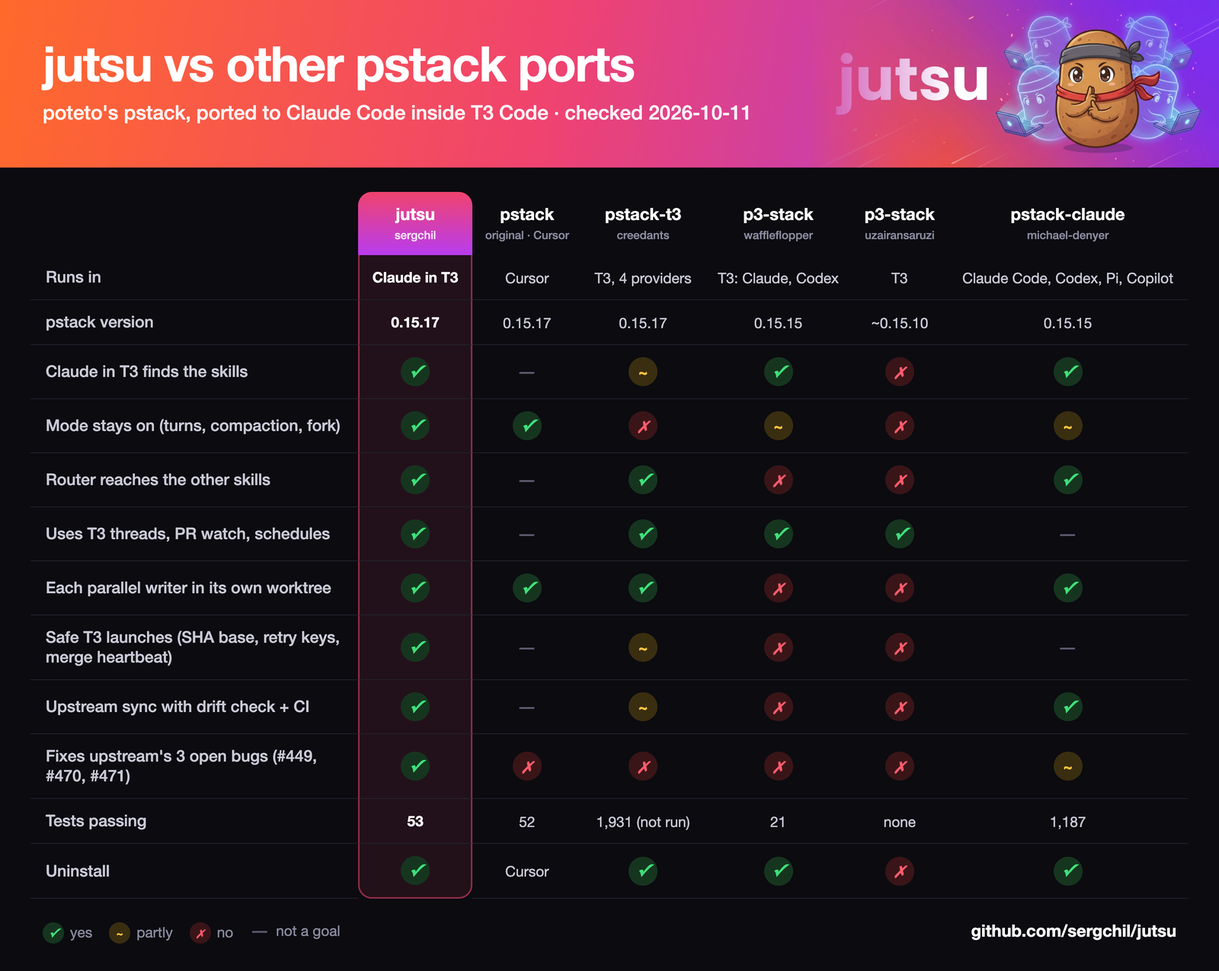
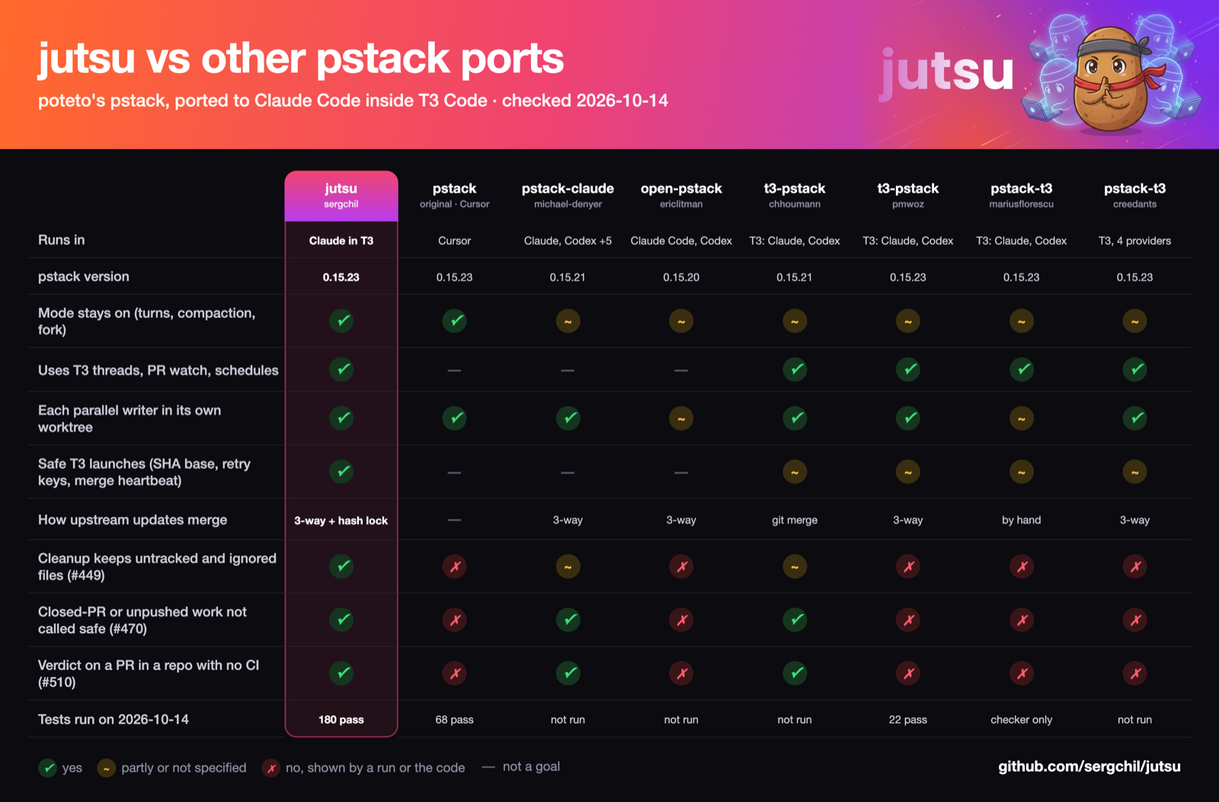
Docs for 0.2.0: comparison of 11 ports dated 2026-10-14, live test notes, changelog, credits

diff --git a/docs/images/comparison.html b/docs/images/comparison.html
@@ -1,11 +1,11 @@
-<!-- Source of comparison.png. Keep its rows in step with docs/COMPARISON.md.
-     Render: screenshot the .card element at deviceScaleFactor 2 (Playwright or headless Chrome),
-     then resize to 1600 px wide. -->
+<!-- Source of comparison.png. Keep its rows in step with docs/COMPARISON.md (it shows 8 of its 11 repos).
+     Render: screenshot the .card element at deviceScaleFactor 2 (Playwright Chromium headless,
+     --use-angle=swiftshader), then resize to 1600 px wide (sips --resampleWidth 1600). -->
 <!doctype html>
 <html><head><meta charset="utf-8">
 <style>
   * { box-sizing: border-box; margin: 0; padding: 0; }
-  body { width: 1600px; background: #0b0b10; font-family: -apple-system, "SF Pro Display", "Helvetica Neue", sans-serif; color: #e8e8ef; }
+  body { width: 1800px; background: #0b0b10; font-family: -apple-system, "SF Pro Display", "Helvetica Neue", sans-serif; color: #e8e8ef; }
   .card { margin: 0; padding: 0 0 36px; background: #0b0b10; }
   .hero { position: relative; height: 220px; overflow: hidden;
           background: linear-gradient(100deg, #ff6a2b 0%, #f0436f 45%, #9b3cf0 100%); }
@@ -14,23 +14,23 @@
   .hero .txt { position: absolute; left: 56px; top: 44px; }
   .hero h1 { font-size: 64px; font-weight: 800; letter-spacing: -1.5px; color: #fff; }
   .hero p { margin-top: 10px; font-size: 26px; color: rgba(255,255,255,.92); font-weight: 500; }
-  table { margin: 32px 40px 0; width: calc(100% - 80px); border-collapse: separate; border-spacing: 0; font-size: 21px; }
-  th, td { padding: 16px 14px; text-align: center; border-bottom: 1px solid #23232e; }
-  th { font-size: 22px; font-weight: 700; color: #fff; padding-bottom: 6px; border-bottom: none; }
-  th small { display: block; font-size: 15px; font-weight: 500; color: #8b8ba0; margin-top: 4px; padding-bottom: 12px; }
-  td:first-child, th:first-child { text-align: left; color: #c9c9d6; font-weight: 500; width: 430px; padding-left: 20px; }
+  table { margin: 32px 40px 0; width: calc(100% - 80px); border-collapse: separate; border-spacing: 0; font-size: 20px; table-layout: fixed; }
+  th, td { padding: 14px 8px; text-align: center; border-bottom: 1px solid #23232e; vertical-align: middle; }
+  th { font-size: 20px; font-weight: 700; color: #fff; padding-bottom: 6px; border-bottom: none; line-height: 1.15; }
+  th small { display: block; font-size: 14px; font-weight: 500; color: #8b8ba0; margin-top: 4px; padding-bottom: 12px; }
+  td:first-child, th:first-child { text-align: left; color: #c9c9d6; font-weight: 500; width: 380px; padding-left: 16px; line-height: 1.25; }
   .j { background: rgba(240, 67, 111, .10); }
   th.j { background: linear-gradient(180deg, #f0436f, #b83cf0); border-radius: 18px 18px 0 0; }
   th.j small { color: rgba(255,255,255,.85); }
   tr:last-child td.j { border-radius: 0 0 18px 18px; }
   td.j { border-left: 2px solid rgba(240,67,111,.55); border-right: 2px solid rgba(240,67,111,.55); color: #fff; font-weight: 600; }
   tr:last-child td.j { border-bottom: 2px solid rgba(240,67,111,.55); }
-  .b { display: inline-flex; align-items: center; justify-content: center; width: 38px; height: 38px; border-radius: 50%; font-size: 22px; font-weight: 800; }
+  .b { display: inline-flex; align-items: center; justify-content: center; width: 36px; height: 36px; border-radius: 50%; font-size: 21px; font-weight: 800; }
   .y { background: #16351f; color: #3ee07a; }
   .p { background: #3a2e10; color: #ffc53d; }
   .n { background: #3a1518; color: #ff5c6c; }
   .x { color: #5c5c70; font-size: 26px; }
-  .t { font-size: 19px; color: #c9c9d6; }
+  .t { font-size: 16px; line-height: 1.25; color: #c9c9d6; display: inline-block; }
   td.j .t { color: #fff; }
   .foot { display: flex; justify-content: space-between; align-items: center; margin: 26px 56px 0; font-size: 19px; color: #8b8ba0; }
   .legend span { margin-right: 22px; display: inline-flex; align-items: center; gap: 8px; }
@@ -42,32 +42,31 @@
     <img src="header.jpg">
     <div class="txt">
       <h1>jutsu vs other pstack ports</h1>
-      <p>poteto's pstack, ported to Claude Code inside T3 Code · checked 2026-10-11</p>
+      <p>poteto's pstack, ported to Claude Code inside T3 Code · checked 2026-10-14</p>
     </div>
   </div>
   <table id="tbl"></table>
   <div class="foot">
     <div class="legend">
-      <span><i class="b y">✓</i>yes</span><span><i class="b p">~</i>partly</span><span><i class="b n">✗</i>no</span><span><i class="x">—</i>not a goal</span>
+      <span><i class="b y">✓</i>yes</span><span><i class="b p">~</i>partly or not specified</span><span><i class="b n">✗</i>no, shown by a run or the code</span><span><i class="x">—</i>not a goal</span>
     </div>
     <div class="url">github.com/sergchil/jutsu</div>
   </div>
 </div>
 <script>
-const cols = [["jutsu","sergchil"],["pstack","original · Cursor"],["pstack-t3","creedants"],["p3-stack","waffleflopper"],["p3-stack","uzairansaruzi"],["pstack-claude","michael-denyer"]];
+const cols = [["jutsu","sergchil"],["pstack","original · Cursor"],["pstack-claude","michael-denyer"],["open-pstack","ericlitman"],["t3-pstack","chhoumann"],["t3-pstack","pmwoz"],["pstack-t3","mariusflorescu"],["pstack-t3","creedants"]];
 const rows = [
- ["Runs in", "t:Claude in T3","t:Cursor","t:T3, 4 providers","t:T3: Claude, Codex","t:T3","t:Claude Code, Codex, Pi, Copilot"],
- ["pstack version", "t:0.15.17","t:0.15.17","t:0.15.17","t:0.15.15","t:~0.15.10","t:0.15.15"],
- ["Claude in T3 finds the skills", "y","x","p","y","n","y"],
- ["Mode stays on (turns, compaction, fork)", "y","y","n","p","n","p"],
- ["Router reaches the other skills", "y","x","y","n","n","y"],
- ["Uses T3 threads, PR watch, schedules", "y","x","y","y","y","x"],
- ["Each parallel writer in its own worktree", "y","y","y","n","n","y"],
- ["Safe T3 launches (SHA base, retry keys, merge heartbeat)", "y","x","p","n","n","x"],
- ["Upstream sync with drift check + CI", "y","x","p","n","n","y"],
- ["Fixes upstream's 3 open bugs (#449, #470, #471)", "y","n","n","n","n","p"],
- ["Tests passing", "t:53","t:52","t:1,931 (not run)","t:21","t:none","t:1,187"],
- ["Uninstall", "y","t:Cursor","y","y","n","y"],
+ ["Runs in", "t:Claude in T3","t:Cursor","t:Claude, Codex +5","t:Claude Code, Codex","t:T3: Claude, Codex","t:T3: Claude, Codex","t:T3: Claude, Codex","t:T3, 4 providers"],
+ ["pstack version", "t:0.15.23","t:0.15.23","t:0.15.21","t:0.15.20","t:0.15.21","t:0.15.23","t:0.15.23","t:0.15.23"],
+ ["Mode stays on (turns, compaction, fork)", "y","y","p","p","p","p","p","p"],
+ ["Uses T3 threads, PR watch, schedules", "y","x","x","x","y","y","y","y"],
+ ["Each parallel writer in its own worktree", "y","y","y","p","y","y","p","y"],
+ ["Safe T3 launches (SHA base, retry keys, merge heartbeat)", "y","x","x","x","p","p","p","p"],
+ ["How upstream updates merge", "t:3-way + hash lock","x","t:3-way","t:3-way","t:git merge","t:3-way","t:by hand","t:3-way"],
+ ["Cleanup keeps untracked and ignored files (#449)", "y","n","p","n","p","n","n","n"],
+ ["Closed-PR or unpushed work not called safe (#470)", "y","n","y","n","y","n","n","n"],
+ ["Verdict on a PR in a repo with no CI (#510)", "y","n","y","n","y","n","n","n"],
+ ["Tests run on 2026-10-14", "t:180 pass","t:68 pass","t:not run","t:not run","t:not run","t:22 pass","t:checker only","t:not run"],
 ];
 const sym = {y:'<i class="b y">✓</i>', p:'<i class="b p">~</i>', n:'<i class="b n">✗</i>', x:'<i class="x">—</i>'};
 let h = '<tr><th></th>' + cols.map((c,i)=>`<th class="${i==0?'j':''}">${c[0]}<small>${c[1]}</small></th>`).join('') + '</tr>';

diff --git a/docs/index.html b/docs/index.html
@@ -193,10 +193,11 @@ cd jutsu &amp;&amp; ./install.sh</code></pre>
 
   <section id="compare">
     <h2>Compared with other pstack ports</h2>
+    <p>jutsu also fixes three pstack bugs that are still open upstream: <a href="https://github.com/cursor/plugins/issues/449">#449</a> and <a href="https://github.com/cursor/plugins/issues/470">#470</a> in worktree cleanup, and <code>watch-pr</code> on a repo with no CI (<a href="https://github.com/cursor/plugins/pull/510">PR #510</a>).</p>
     <figure>
-      <a href="images/comparison.png"><img src="images/comparison.png" width="1600" height="1275" loading="lazy" decoding="async"
-         alt="Table comparing jutsu with pstack, pstack-t3, two p3-stack ports, and pstack-claude on 12 points, checked 2026-10-11"></a>
-      <figcaption>Checked 2026-10-11. <a href="https://github.com/sergchil/jutsu/blob/main/docs/COMPARISON.md">See the evidence for every cell.</a></figcaption>
+      <a href="images/comparison.png"><img src="images/comparison.png" width="1600" height="1053" loading="lazy" decoding="async"
+         alt="Table comparing jutsu with pstack, pstack-claude, open-pstack, two t3-pstack ports, and two pstack-t3 ports on 11 points, checked 2026-10-14"></a>
+      <figcaption>Checked 2026-10-14. The full table covers 11 repos. <a href="https://github.com/sergchil/jutsu/blob/main/docs/COMPARISON.md">See the evidence for every cell.</a></figcaption>
     </figure>
   </section>
 

diff --git a/docs/COMPARISON.md b/docs/COMPARISON.md
@@ -1,44 +1,97 @@
 # pstack ports compared
 
-Checked on **2026-10-11** against each repo's default branch. Every cell comes from a file at the commit listed below, a command run that day, or the GitHub API. ✅ meets the point, ⚠ partly, ❌ does not, — not a goal of that repo.
+Checked on **2026-10-14** against each repo's default branch. Every cell comes from a file at the commit listed below, a command run that day, or the GitHub API. ✅ meets the point, ⚠ partly or not specified, ❌ fails it (shown by a run or by the code path), — not a goal of that repo. jutsu is held to the same bar: a ❌ needs a shown failure, and a point a repo does not address is ⚠, not ❌.
+
+A search on 2026-10-14 found 311 public pstack ports. These are the 10 closest to jutsu: every T3 Code port with real use or a distinct technique, and the largest Claude Code ports.
 
 | Repo | Commit | Date (UTC) |
 |---|---|---|
-| [pstack](https://github.com/cursor/plugins/tree/main/pstack) (original) | `978ca6e` (0.15.17) | 2026-10-10 |
-| [**sergchil/jutsu**](https://github.com/sergchil/jutsu) (this repo) | `main` | 2026-10-11 |
-| [creedants/pstack-t3](https://github.com/creedants/pstack-t3) | `a9fca20` | 2026-10-11 |
+| [pstack](https://github.com/cursor/plugins/tree/main/pstack) (original) | `ce649c0` (0.15.23) | 2026-10-14 |
+| [**sergchil/jutsu**](https://github.com/sergchil/jutsu) (this repo) | 0.2.0 | 2026-10-14 |
+| [creedants/pstack-t3](https://github.com/creedants/pstack-t3) | `6da5eb3` | 2026-10-14 |
 | [waffleflopper/p3-stack](https://github.com/waffleflopper/p3-stack) | `fc4a5fb` | 2026-10-09 |
 | [uzairansaruzi/p3-stack](https://github.com/uzairansaruzi/p3-stack) | `09909eb` | 2026-10-05 |
-| [michael-denyer/pstack-claude](https://github.com/michael-denyer/pstack-claude) | `5f07f5e` (0.9.81) | 2026-10-10 |
+| [pmwoz/t3-pstack](https://github.com/pmwoz/t3-pstack) | `0f329b4` | 2026-10-14 |
+| [chhoumann/t3-pstack](https://github.com/chhoumann/t3-pstack) | `5c3f2fa` | 2026-10-13 |
+| [mariusflorescu/pstack-t3](https://github.com/mariusflorescu/pstack-t3) | `564759a` | 2026-10-14 |
+| [michael-denyer/pstack-claude](https://github.com/michael-denyer/pstack-claude) | `94f5ce9` (0.9.84) | 2026-10-14 |
+| [ericlitman/open-pstack](https://github.com/ericlitman/open-pstack) | `40d506c` | 2026-10-13 |
+| [backnotprop/pstack](https://github.com/backnotprop/pstack) | `1f0f9c3` | 2026-10-14 |
 
-## The points, with evidence
+## T3 Code ports
 
-| Point | pstack | **jutsu** | pstack-t3 | waffle | uzair | pstack-claude |
-|---|---|---|---|---|---|---|
-| Runs in | Cursor | Claude Code in T3, plain Claude Code too | T3: Claude, Codex, Grok, Cursor | T3: Claude, Codex | T3 providers that read `~/.agents/skills` | Claude Code, Codex, Pi, Copilot |
-| Built from pstack | 0.15.17 | 0.15.17 | 0.15.17 | 0.15.15 | about 0.15.10 (no pin) | 0.15.15 |
-| Upstream skills present, of 52 | 52 | 51: `make-bot-ui` left out, it builds Cursor automations | 52 | 51: no `ketchup` | 51: no `ketchup` | 50: no `ketchup`, `make-bot-ui` |
-| Claude in T3 finds the skills after install | — | ✅ links every enabled T3 Claude instance | ⚠ ignores a T3 instance's `homePath` (`scripts/install.py:38-47`) | ✅ | ❌ links only `~/.agents/skills`, which Claude does not read ([issue #2](https://github.com/uzairansaruzi/p3-stack/issues/2)) | ✅ as a plugin; not in T3's `$` picker |
-| Mode stays on: every turn, after compaction, after a fork | ✅ Cursor Custom Mode | ✅ mode hook (`plugin/hooks/jutsu-mode`) | ❌ no hooks; the per-turn reminder is dropped (`scripts/build.py:27`) | ⚠ a forked thread loses it (`hooks/install.py:22-26`) | ❌ no hooks | ⚠ session start only (`hooks.json:5`) |
-| The router can reach the other skills under Claude | — | ✅ reads them by path | ✅ | ❌ 50 of 51 skills set `disable-model-invocation: true`, which Claude's Skill tool refuses | ❌ same as waffle | ✅ |
-| Uses T3's own tools (threads, PR watch, schedules, browser, simulator) | — | ✅ | ✅ | ✅ | ✅ | — |
-| Each parallel writer gets its own worktree | ✅ Cursor cloud agents | ✅ worktree from HEAD per writer | ✅ | ❌ owners share one checkout (`autopilot-full.md:11-12`) | ❌ same as waffle | ✅ `isolation: "worktree"` |
-| `delegate_task` calls carry a retry key (`clientRequestId`) | — | ✅ | ✅ | ❌ 0 of 40 files | ❌ 0 of 40 files | — |
-| Launched T3 threads start from a commit SHA | — | ✅ | ⚠ from a branch name | ⚠ not specified | ⚠ not specified | — |
-| A merge wait has a heartbeat (a merge never wakes a T3 watch) | — | ✅ | ✅ | ⚠ waits for a merge wake (`shipping.md:14`) | ⚠ same as waffle | — |
-| Upstream update: sync script, per-file drift check, CI | — | ✅ weekly upstream PR that lists what to port | ⚠ 2 rewritten files not drift-checked | ❌ | ❌ | ✅ |
-| Fixes upstream's open bugs: [#449](https://github.com/cursor/plugins/issues/449) deletes untracked and ignored files, [#470](https://github.com/cursor/plugins/issues/470) calls closed-PR or unpushed work safe, [#471](https://github.com/cursor/plugins/issues/471) reads only 100 review threads | ❌ all 3 open | ✅ all 3, with tests (`tests/test_worktree_audit.py`, `watch-pr/github.test.ts`) | ❌ all 3 present (`t3/overrides/poteto-mode/scripts/worktree-audit.sh:401`, `playbooks/worktree-cleanup.md:11`, `watch-pr/github.ts`) | ❌ #449 and #470 present (`worktree-audit.sh:116`, `worktree-cleanup.md:9`); no watch-pr | ❌ #449 present (`worktree-cleanup.md:9`); no audit script or watch-pr | ⚠ #470 and #471 fixed; #449 half: untracked files are held, but ignored files are not checked and the playbook still uses `--force` and `rm -rf` (`worktree-cleanup.md:9`) |
-| Tests | 52 pass | 53 pass | 1,931 (suite over 3 min, not run) | 21 pass, 1 skip | none | 1,187 pass, 40 skip |
-| Uninstall | Cursor's plugin manager | ✅ `./uninstall.sh` | ✅ | ✅ | ❌ | ✅ `claude plugin uninstall` |
-| Adds scope beyond pstack | — | none | `brigade`, `landing`, light mode, 4 provider harnesses | Codex hooks | none | 3 more runtimes, 8 extra skills |
+| Point | **jutsu** | creedants pstack-t3 | waffle p3-stack | uzair p3-stack | pmwoz t3-pstack | chhoumann t3-pstack | marius pstack-t3 |
+|---|---|---|---|---|---|---|---|
+| Runs in | Claude Code in T3, plain Claude Code too | T3: Claude, Codex, Grok, Cursor | T3: Claude, Codex | T3 providers that read `~/.agents/skills` | T3: Claude, Codex | T3: Claude, Codex | T3: Claude, Codex |
+| Built from pstack | 0.15.23 (`port/upstream.json`) | 0.15.23 | 0.15.15 | about 0.15.10 (no pin) | 0.15.23 (`pins.json`) | 0.15.21, through pstack-claude | 0.15.23 (`UPSTREAM`) |
+| Upstream skills present, of 53 | 52: `make-bot-ui` left out, it builds Cursor automations | 53 | 51 at 0.15.15: no `ketchup` | 51 at ~0.15.10: no `ketchup` | 53 | 51: no `in-your-own-words`, `make-bot-ui` | 53 |
+| Claude in T3 finds the skills after install | ✅ links every enabled T3 Claude instance, `homePath` included | ⚠ ignores a T3 instance's `homePath` (`scripts/install.py`) | ✅ | ❌ links only `~/.agents/skills`, which Claude does not read ([issue #2](https://github.com/uzairansaruzi/p3-stack/issues/2)) | ✅ Claude plugin (`README.md:16`) | ✅ Claude plugin (`README.md:15`) | ✅ `~/.claude/skills` link (`README.md:11`) |
+| Mode stays on: every turn, after compaction, after a fork | ✅ hooks on prompt expansion, prompt submit, session start, and subagent start (`plugin/hooks/hooks.json`) | ⚠ no hooks; the per-turn reminder is dropped (`scripts/build.py:27`) | ⚠ a forked thread loses it (`hooks/install.py:22-26`) | ⚠ no hooks | ⚠ session start only: startup, clear, compact (`hooks/hooks.json`) | ⚠ session start only: startup, resume, clear, compact | ⚠ no hooks |
+| The router can reach the other skills under Claude | ✅ reads them by path | ✅ | ❌ 50 of 51 skills set `disable-model-invocation: true`, which Claude's Skill tool refuses | ❌ same as waffle | ✅ reads them by path (`t3-adapter.md:17`) | ✅ skills stay model-invocable | ✅ reads them by path (`T3-NATIVE.md:41`) |
+| Uses T3's own tools (threads, PR watch, schedules, browser, simulator) | ✅ | ✅ | ✅ | ✅ | ✅ | ✅ through T3's MCP tools | ✅ |
+| Each parallel writer gets its own worktree | ✅ worktree from HEAD per writer | ✅ | ❌ owners share one checkout (`autopilot-full.md:11-12`) | ❌ same as waffle | ✅ the parent adds a worktree per writing lane (`t3-adapter.md:64`) | ✅ `t3_thread_launch` worktree per PR owner (`t3-tools.md:122`) | ⚠ `delegate_task` writers share the checkout and split files; a launched thread gets a worktree (`T3-NATIVE.md:67`) |
+| `delegate_task` calls carry a retry key (`clientRequestId`) | ✅ | ✅ | ❌ 0 of 40 files | ❌ 0 of 40 files | ✅ | ✅ | ✅ |
+| Launched T3 threads start from a commit SHA | ✅ | ⚠ from a branch name | ⚠ not specified | ⚠ not specified | ⚠ from a ref; read-only lanes from a SHA (`t3-adapter.md:64-66`) | ⚠ from `baseRef` (`t3-tools.md:122`) | ⚠ `baseRef` is a commit or a branch (`T3-NATIVE.md:67`) |
+| A merge wait has a heartbeat (a merge never wakes a T3 watch) | ✅ | ✅ | ⚠ waits for a merge wake (`shipping.md:14`) | ⚠ same as waffle | ✅ `schedule_task` fallback (`t3-adapter.md:83`) | ⚠ holds the watch under `/loop` (`shipping.md:15`); no T3 schedule | ✅ `schedule_task` fallback (`shipping.md:14`) |
+| Update technique | Vendor copy, sha256-locked overrides, exact substitutions; the sync 3-way merges each touched override; a reason per override; weekly upstream PR and weekly T3 tool-list PR | Vendor copy, sha256-locked overrides, 3-way `--merge` (`scripts/sync_upstream.py:10-17`) | ⚠ by hand | ⚠ by hand | Verbatim snapshot, 9 declared drift files with reasons (`drift.json`), 3-way merge (`tools/sync.ts`), pinned T3 contract snapshot (`tools/t3.ts`) | `git merge` from pstack-claude | Hand port against a written contract (`T3-NATIVE.md`) and a regex checker |
+| [#449](https://github.com/cursor/plugins/issues/449): cleanup keeps untracked and ignored files | ✅ both held (`tests/test_worktree_audit.py`) | ❌ both bucketed safe (fixture run); playbook says `--force` and `rm -rf` (`worktree-cleanup.md:9`) | ❌ `worktree-audit.sh:116`, `worktree-cleanup.md:9` | ❌ `worktree-cleanup.md:9`; no audit script | ❌ both bucketed safe (fixture run); `worktree-cleanup.md:7` | ⚠ untracked held, ignored bucketed safe (fixture run) | ❌ both bucketed safe (fixture run) |
+| [#470](https://github.com/cursor/plugins/issues/470): closed-PR or unpushed work is not called safe | ✅ (`tests/test_worktree_audit.py`) | ❌ closed PR and closed-PR-plus-local-commits bucketed safe (fixture run, `worktree-audit.sh:443`) | ❌ (`worktree-audit.sh:116`) | — no audit script | ❌ bucketed safe (fixture run) | ✅ bucketed review (fixture run) | ❌ bucketed safe (fixture run) |
+| A PR in a repo with no CI gets a verdict ([PR #510](https://github.com/cursor/plugins/pull/510)) | ✅ after 60 s with no checks (`watch-pr/policy.test.ts`) | ❌ `resolveChecks` throws on an empty check list, same code as upstream | — no watch-pr | — no watch-pr | ❌ same code as upstream | ✅ handles gh's "no checks reported" (`watch-pr/github.ts`); not run | ❌ same code as upstream |
+| Tests | 95 Python + 85 bun pass | 40 test files (suite over 3 min, not run) | 21 pass, 1 skip | none | `bun run check` + 22 pass | 55 test files (not run) | checker 54/54 clean; no unit tests of its own |
+| Uninstall | ✅ `./uninstall.sh` | ✅ | ✅ | ❌ | ✅ Claude's plugin manager | ✅ Claude's plugin manager | ⚠ not documented |
+| Adds scope beyond pstack | none | `brigade`, `landing`, light mode, 4 provider harnesses | Codex hooks | none | 3 cursor-team-kit skills, Codex | Codex, cursor-team-kit and thermos skills | `deslop`, Codex |
+
+## Claude Code ports, and upstream
+
+| Point | pstack | **jutsu** | pstack-claude | open-pstack | backnotprop pstack |
+|---|---|---|---|---|---|
+| Runs in | Cursor | Claude Code in T3, plain Claude Code too | Claude Code, Codex, Pi, Copilot, OpenCode, Gemini, Prime | Claude Code and Codex, with Grok lanes | Claude Code, Codex, Pi (plain skills folder) |
+| Built from pstack | 0.15.23 | 0.15.23 | 0.15.21 (`tools/upstream.json`) | 0.15.20 (`UPSTREAM.md:12`) | 0.15.23 (commit `1f0f9c3`) |
+| Upstream skills present, of 53 | 53 | 52 | 51: no `in-your-own-words`, `make-bot-ui` | 51: no `in-your-own-words`, `make-bot-ui` | 53 |
+| Mode stays on | ✅ Cursor Custom Mode | ✅ mode hook | ⚠ session start only (`hooks.json`) | ⚠ session start only: startup, clear, compact | ⚠ no hooks |
+| Each parallel writer gets its own worktree | ✅ Cursor cloud agents | ✅ | ✅ `isolation: "worktree"` (`skills/swarm/SKILL.md`) | ⚠ a worktree for Codex and external lanes; not stated for Claude lanes (`provider-dispatch.md:38-46`) | ⚠ not specified for Claude (`poteto-mode/SKILL.md:105`) |
+| Update technique | — | see above | Generated tree, 3-way `git merge-file` (`tools/sync.mjs`), every fork declared with a reason (`tools/forks.json`) | Audit JSON, then upstream blob or `git merge-file` per file (`scripts/upstream-merge.py`); a ledger of upstream commits not applied (`UPSTREAM.md`) | An `upstream` branch that mirrors Cursor's files, merged into `main` (`MIRROR.md`) |
+| #449: keeps untracked and ignored files | ❌ both bucketed safe (fixture run); `worktree-cleanup.md:7` | ✅ | ⚠ untracked held, ignored bucketed safe (fixture run); `worktree-cleanup.md:7` keeps `--force` and `rm -rf` | ❌ both bucketed safe (fixture run) | ❌ both bucketed safe (fixture run) |
+| #470: closed-PR or unpushed work is not called safe | ❌ bucketed safe (fixture run) | ✅ | ✅ bucketed review (fixture run) | ❌ bucketed safe (fixture run) | ❌ bucketed safe (fixture run) |
+| A PR in a repo with no CI gets a verdict | ❌ `resolveChecks` throws (`watch-pr/github.ts`); fix open as PR #510 | ✅ | ✅ handles "no checks reported" (`watch-pr/github.ts`); not run | ❌ same code as upstream | ❌ same code as upstream |
+| Tests | 68 bun pass | 95 Python + 85 bun pass | 51 test files (not run; 1,187 passed on 2026-10-11 at `5f07f5e`) | 24 test files (not run) | upstream's 5 bun test files only |
+| Uninstall | Cursor's plugin manager | ✅ `./uninstall.sh` | ✅ `claude plugin uninstall` | ✅ Claude's plugin manager | ⚠ not documented |
+| Adds scope beyond pstack | — | none | 6 more runtimes, extra skills | cross-provider routing and failover, extra skills | harness-neutral rewrites of some skills |
+
+[#471](https://github.com/cursor/plugins/issues/471) (only 100 review threads read) is fixed upstream since 0.15.23 ([PR #484](https://github.com/cursor/plugins/pull/484)), so it is no longer a row. jutsu keeps two extra cursor guards on top of that fix.
+
+## Technique: what jutsu took, and from whom
+
+jutsu 0.2.0 adopted these after reading the ports above. Each is credited in [NOTICE.md](../NOTICE.md).
+
+- **3-way merge on upstream sync** (`tools/sync_upstream.py`): michael-denyer/pstack-claude (`tools/sync.mjs`), creedants/pstack-t3 (`--merge`), pmwoz/t3-pstack (`tools/sync.ts`), ericlitman/open-pstack (`scripts/upstream-merge.py`). jutsu keeps its sha256 lock on top, so a clean merge still fails the build until a person reviews and relocks it.
+- **A reason per override** (`port/overrides.json`): pstack-claude's `forks.json` and pmwoz's `drift.json`.
+- **Fail on an override that matches upstream**: pmwoz (`tools/check.ts:30`). **Fail on conflict markers**: pstack-claude's generator.
+- **Checker rules that test themselves** (`tools/check.py`): janrizmlibres/claude-pstack (idea only).
+- **T3 tool list generated from pinned T3 source** (`tools/t3_tools.py`, `port/t3.json`, weekly T3 PR): pmwoz (`tools/t3.ts`).
+- **Upstream commit list in the sync PR**: meganemura/pstack-portable.
+- **watch-pr on a repo with no CI**: upstream PR #510 by izeigerman, also fixed in pstack-claude. jutsu adds a 60 s wait before it calls a PR with no checks ready, for the premature READY that Cursor Bugbot found in #510.
+- **Mode from `$jutsu` text and `skill://` links**: waffleflopper/p3-stack's prompt hook.
+- **A `SubagentStart` hook for poteto-agent children**: Aqua-123/pstack-for-codex; the need was measured in pstack-claude issue #264.
+- **Never `t3_worktree_handoff`, and the zsh separator rule**: pmwoz.
+- **Async delegate waves, then `t3_thread_wait` per child**: osmelmora/p3-executor.
+- **`gh -R <owner>/<repo>` for PRs from forks**: mdsmithaustin/pstack.
+- **A probe date on each host fact**: mariusflorescu/pstack-t3.
+- **Slash-only skill descriptions**: upstream issue #367 and PR #519.
+
+Where others still do better: pmwoz keeps 9 drift files where jutsu keeps 52 whole-file overrides, so jutsu reviews more per upstream release. pstack-claude and open-pstack cover more runtimes. jutsu targets Claude Code only.
 
 ## Known gaps in jutsu
 
+- 0.2.0 has not been rerun in the T3 desktop app. Its live run used Claude Code headless in stream-json mode, the mode T3 uses ([TESTED.md](TESTED.md)). The 0.1.0 T3 runs still stand for what did not change.
+- The no-CI `watch-pr` path is tested with fake GitHub replies, not on a real repo without CI.
+- To tell "no CI" from "checks not registered yet", `watch-pr` looks for a check rollup on the PR's last 50 commits only. On a longer PR, checks on older commits are not seen.
+- `worktree-audit.sh` uses `awk`. It was not tested with mawk.
 - `watch-pr` reading past 100 review threads is tested with fake GitHub pages, not on a real PR that has more than 100 threads.
-- Worktree isolation is a rule in each brief, not something T3 enforces. pstack-t3 works the same way.
-- The live tests in [TESTED.md](TESTED.md) were run by hand. The automated tests cover the build, checks, mode hook, installer, and bundled scripts, not whole playbooks.
+- Worktree isolation is a rule in each brief, not something T3 enforces. Most ports above work the same way.
+- The automated tests cover the build, checks, hooks, installer, and bundled scripts, not whole playbooks.
 - New repo: no stars, forks, or outside issues yet.
 
 ## How to re-check
 
-Clone each repo at the commit above. Counts of T3 tool use and of `clientRequestId` are `grep -rl` over the files each repo installs. The skill count compares each repo's installed skill names with upstream 0.15.17's 52 skills.
+Clone each repo at the commit above. The "fixture run" cells come from jutsu's own `tests/test_worktree_audit.py` pointed at each repo's `worktree-audit.sh` (or `.mjs`): 15 real worktrees in a real git repo, with a stub `gh` that lists closed and merged PRs. creedants holds every worktree active in the last 4 days as `verify-recent`, so it ran with `RECENT_DAYS=-1`. waffle's script holds every new worktree the same way, so its cells cite the code. The "same code as upstream" cells mean the repo's `resolveChecks` in `watch-pr/github.ts` is byte-identical to upstream's, which throws when a PR has no checks. Skill counts compare each repo's skill and principle names with upstream 0.15.23's 53. Counts of `clientRequestId` are `grep -rl` over the files each repo installs.

diff --git a/NOTICE.md b/NOTICE.md
@@ -5,13 +5,14 @@ jutsu is a port. The skills, principles, and language are Lauren Tan's (poteto).
 - **pstack** by Lauren Tan, MIT. Upstream: https://github.com/cursor/plugins/tree/main/pstack. Vendored unchanged in `vendor/pstack/` with its own `LICENSE`.
 - Ideas and fixes adapted from other ports, all MIT:
   - **pstack-claude** by Michael Denyer (https://github.com/michael-denyer/pstack-claude): Claude Code rule fixes found in real runs, effort per subagent, the substitution-and-fork sync design, the stuck-cursor guard for review threads, and counting a merged PR only for the commit it merged.
-  - **pstack-t3** by creedants (https://github.com/creedants/pstack-t3): T3 tool semantics, worktree isolation for delegated writers, the vendor-plus-overrides build with hash locks.
-  - **p3-stack** by waffleflopper and Uzair Ansar (https://github.com/waffleflopper/p3-stack, https://github.com/uzairansaruzi/p3-stack): a provider hook that keeps the mode on, and per-instance Claude config dirs from T3's settings.
+  - **pstack-t3** by creedants (https://github.com/creedants/pstack-t3): T3 tool semantics, worktree isolation for delegated writers, the vendor-plus-overrides build with hash locks, and the 3-way merge on upstream sync.
+  - **p3-stack** by waffleflopper and Uzair Ansar (https://github.com/waffleflopper/p3-stack, https://github.com/uzairansaruzi/p3-stack): a provider hook that keeps the mode on, turning it on from `$` text and `skill://` links, and per-instance Claude config dirs from T3's settings.
+  - **open-pstack** by Eric Litman (https://github.com/ericlitman/open-pstack): the 3-way upstream merge script.
   - **t3-pstack** by pmwoz (https://github.com/pmwoz/t3-pstack): failing the build on an override that matches upstream, generating the T3 tool list from a pinned T3 snapshot, and the `t3_worktree_handoff` and zsh separator rules.
   - **p3-executor** by osmelmora (https://github.com/osmelmora/p3-executor): launching short delegate waves async and waiting on each child in the same turn.
   - **pstack-for-codex** by Aqua-123 (https://github.com/Aqua-123/pstack-for-codex): a subagent-start hook that hands poteto-agent children the mode.
   - **pstack** by mdsmithaustin (https://github.com/mdsmithaustin/pstack): passing `-R <owner>/<repo>` to `gh` for pull requests from forks.
   - **pstack-t3** by mariusflorescu (https://github.com/mariusflorescu/pstack-t3): a probe date on each host fact.
   - Ideas only, no code: **claude-pstack** by janrizmlibres (https://github.com/janrizmlibres/claude-pstack, no license file), checker rules that test themselves; **pstack-portable** by meganemura (https://github.com/meganemura/pstack-portable), a commit list in each upstream sync.
-- Open fix pull requests in cursor/plugins, under pstack's MIT license: [#492](https://github.com/cursor/plugins/pull/492) by deanrie (for #470), [#484](https://github.com/cursor/plugins/pull/484) by Yi-111-a (for #471, since merged), and [#510](https://github.com/cursor/plugins/pull/510) by izeigerman (no-CI pull requests), with a guard for the premature READY that Cursor Bugbot found in it.
+- Open fix pull requests in cursor/plugins, under pstack's MIT license: [#492](https://github.com/cursor/plugins/pull/492) by deanrie (for #470), [#484](https://github.com/cursor/plugins/pull/484) by Yi-111-a (for #471, since merged), [#510](https://github.com/cursor/plugins/pull/510) by izeigerman (no-CI pull requests), with a guard for the premature READY that Cursor Bugbot found in it, and [#519](https://github.com/cursor/plugins/pull/519) (for #367, slash-only skill descriptions).
 - **T3 Code** by Ping Labs (https://github.com/pingdotgg/t3code, MIT) is the host this port targets. `tools/t3-tools.txt` lists its MCP tool names.

diff --git a/docs/TESTED.md b/docs/TESTED.md
@@ -1,6 +1,30 @@
 # Live tests
 
-Run by hand in T3 Code nightly 0.0.46 (build 20261009.2861) with Claude Code 2.1.295 on macOS, 2026-10-10 and 2026-10-11. Each result was read from the Claude transcript, git, GitHub, or a screenshot, not from the agent's own summary.
+Each result was read from the Claude transcript, git, GitHub, or a screenshot, not from the agent's own summary.
+
+## 0.2.0 (2026-10-14)
+
+**Headless, not in the T3 app.** Claude Code 2.1.296 on macOS, run headless with stream-json output, the mode T3 uses to drive Claude, with jutsu linked at `~/.claude/skills/jutsu`. 0.2.0 has not been rerun in the T3 desktop app yet.
+
+| What | Result |
+|---|---|
+| `$jutsu` as plain text mid-sentence: "Fix the bug in calc.py, $jutsu. Do not change code yet: say which playbook you matched, then spawn exactly one jutsu:poteto-agent…" | The `UserPromptSubmit` hook turned the mode on: it wrote the session flag (`sessions/<id>` holds `on`) and added "jutsu poteto mode is now on in this session…" to the turn, as the transcript shows |
+| Router and playbook | The model read `poteto-mode/SKILL.md` and `references/runtime.md`, matched the Bug fix playbook, and changed no code |
+| `SubagentStart` hook | It spawned one `Agent` with `subagent_type: jutsu:poteto-agent`, `model: haiku`, `effort: low`. Asked to quote the first context it got before its brief, the child replied "jutsu poteto mode is on in the parent session.", the hook's text |
+| Commands Claude lists | `/jutsu` and 28 `/jutsu:<skill>` commands, including the new `/jutsu:in-your-own-words`; agents `jutsu:poteto-agent` and `jutsu:comment-sicko` (stream-json `init` event) |
+
+Automated, on the 0.2.0 tree:
+
+| Suite | Result |
+|---|---|
+| `python3 -m unittest discover -s tests` | 95 pass: build, checker (rules test themselves), mode and subagent hooks, installer, upstream 3-way sync on real git repos, T3 tool list from T3 source, worktree audit on 15 real worktrees |
+| `bun test` in `poteto-mode/scripts` (watch-pr, orch, check-plan), on a clean copy | 85 pass, including the no-CI `watch-pr` cases and the 60 s guard against an early READY |
+
+Not run for 0.2.0: the T3 desktop app, a real PR in a repo with no CI, and the `t3.yml` weekly workflow.
+
+## 0.1.0 (2026-10-10 and 2026-10-11)
+
+Run by hand in T3 Code nightly 0.0.46 (build 20261009.2861) with Claude Code 2.1.295 on macOS.
 
 | What | Result |
 |---|---|

diff --git a/CHANGELOG.md b/CHANGELOG.md
@@ -2,6 +2,17 @@
 
 Notable changes to jutsu. Versions follow the plugin version in `plugin/.claude-plugin/plugin.json`.
 
+## 0.2.0 (2026-10-14)
+
+- Tracks pstack 0.15.23. New skill `/jutsu:in-your-own-words`, and per-job subagent effort from upstream. Now 23 playbooks, 24 principles, and 28 skills as `/jutsu:<skill>` commands.
+- Fixes `watch-pr` on a repo with no CI, which never reached a verdict (upstream [PR #510](https://github.com/cursor/plugins/pull/510)). A PR with no checks counts as no CI only after the same head stays check-less for 60 s, so a fresh push is not called READY early.
+- [#471](https://github.com/cursor/plugins/issues/471) is fixed upstream ([PR #484](https://github.com/cursor/plugins/pull/484)). jutsu now uses upstream's code and keeps two extra cursor guards. [#449](https://github.com/cursor/plugins/issues/449) and [#470](https://github.com/cursor/plugins/issues/470) stay fixed here, and the worktree audit now also covers the cases from [PR #492](https://github.com/cursor/plugins/pull/492).
+- The mode also turns on from `$jutsu` or `/jutsu` anywhere in the prompt text and from a `skill://` link to jutsu, since T3 expands only the last `$skill` mention. A `SubagentStart` hook gives each `jutsu:poteto-agent` child the router path.
+- Runtime rules: never use `t3_worktree_handoff`; quote separators in zsh; launch short `delegate_task` waves async and wait with `t3_thread_wait`; pass `gh -R <owner>/<repo>` for PRs from forks; host facts carry the date they were checked.
+- Slash-only skills describe what they do instead of when to use them (upstream #367).
+- Updates: the sync now 3-way merges each override upstream touched, and the build fails on conflict markers. Each override has a reason in `port/overrides.json`. The build fails on an override that matches upstream. Checker rules test themselves. The T3 tool list is generated from pinned T3 source, and a weekly workflow opens a PR when T3 changes. CI runs on the bot's update PRs.
+- Ideas and fixes from other ports, credited in [NOTICE.md](NOTICE.md) and [docs/COMPARISON.md](docs/COMPARISON.md).
+
 ## 0.1.0 (2026-10-11)
 
 The first public release.

diff --git a/README.md b/README.md
@@ -9,7 +9,7 @@
 
 **jutsu** is [pstack](https://github.com/cursor/plugins/tree/main/pstack) by Lauren Tan (poteto), ported to **Claude Code inside [T3 Code](https://github.com/pingdotgg/t3code)**.
 
-One command, `/jutsu`, turns on poteto mode. It routes each task to one of pstack's 23 playbooks (bug fix, feature, refactor, babysit a PR, overnight run…), applies its 24 principles, and proves the work before it calls it done. In T3 it uses T3's own tools: parallel threads in their own worktrees, PR watching, schedules, the browser, and simulators.
+One command, `/jutsu`, turns on poteto mode. It routes each task to one of pstack 0.15.23's 23 playbooks (bug fix, feature, refactor, babysit a PR, overnight run…), applies its 24 principles, and proves the work before it calls it done. In T3 it uses T3's own tools: parallel threads in their own worktrees, PR watching, schedules, the browser, and simulators.
 
 ![$jutsu in T3's skill picker](docs/images/picker.jpg)
 
@@ -42,11 +42,11 @@ Removes everything jutsu added to each Claude config folder that T3 uses: the pl
 
 `git pull`. When poteto releases a new pstack, a weekly GitHub workflow opens a pull request that lists exactly what to port ([docs/UPDATING.md](docs/UPDATING.md)).
 
-## Compared with other ports (2026-10-11)
+## Compared with other ports (2026-10-14)
 
-![jutsu compared with pstack, pstack-t3, both p3-stack ports, and pstack-claude](docs/images/comparison.png)
+![jutsu compared with pstack, pstack-claude, open-pstack, and four T3 ports](docs/images/comparison.png)
 
-Evidence for every cell, commits, and our own known gaps: [docs/COMPARISON.md](docs/COMPARISON.md). Live tests: [docs/TESTED.md](docs/TESTED.md).
+jutsu fixes three pstack bugs that are still open upstream: [#449](https://github.com/cursor/plugins/issues/449), [#470](https://github.com/cursor/plugins/issues/470), and watch-pr on a repo with no CI ([PR #510](https://github.com/cursor/plugins/pull/510)). Evidence for every cell, 11 repos, and our own known gaps: [docs/COMPARISON.md](docs/COMPARISON.md). Live tests: [docs/TESTED.md](docs/TESTED.md).
 
 ## More
 

diff --git a/docs/HOW-IT-WORKS.md b/docs/HOW-IT-WORKS.md
@@ -2,7 +2,7 @@
 
 ## Packaging
 
-jutsu is a Claude Code "skills-dir plugin". `install.sh` puts one symlink, `<claude config dir>/skills/jutsu -> <checkout>/plugin`, into each Claude config dir that T3 uses (it reads them from T3's provider settings). Claude Code then loads the folder as `jutsu@skills-dir`: 27 user-invoked skills, two agents (`jutsu:poteto-agent`, `jutsu:comment-sicko`), and a mode hook. The root `SKILL.md` is the `/jutsu` command, which also appears in T3's `$` skill picker.
+jutsu is a Claude Code "skills-dir plugin". `install.sh` puts one symlink, `<claude config dir>/skills/jutsu -> <checkout>/plugin`, into each Claude config dir that T3 uses (it reads them from T3's provider settings). Claude Code then loads the folder as `jutsu@skills-dir`: 28 user-invoked skills, two agents (`jutsu:poteto-agent`, `jutsu:comment-sicko`), and a mode hook. The root `SKILL.md` is the `/jutsu` command, which also appears in T3's `$` skill picker.
 
 - Every skill sets `disable-model-invocation: true`, so none of them crowd Claude's skill list. The router reads the other skills and the 24 principles as files, by path.
 - `plugin/hooks/jutsu-mode` keeps the mode on: `/jutsu` writes a per-session flag, each later prompt gets pstack's one-line reminder, and a compaction, resume, or fork re-points Claude at the router. A `/jutsu` or `$jutsu` mention in the prompt text, or a `skill://` link to jutsu, turns the mode on too, since T3 expands only the last `$skill` mention and older T3 builds send `$jutsu` as text. A prompt that is only `/jutsu off` or `$jutsu off` turns it off. While the mode is on, each new `jutsu:poteto-agent` child gets the router path through a `SubagentStart` hook. It never blocks a prompt.
